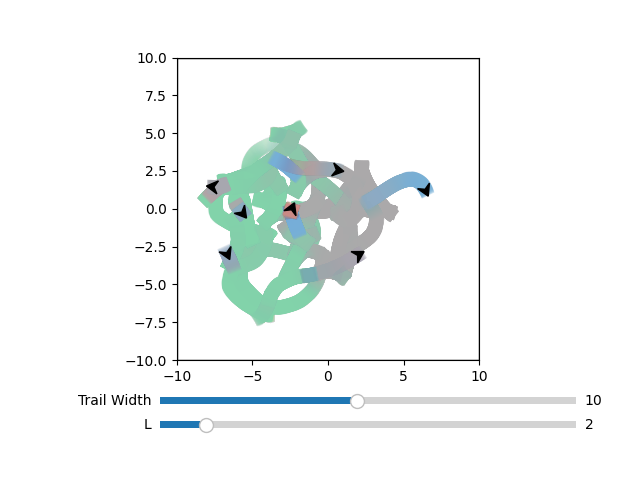
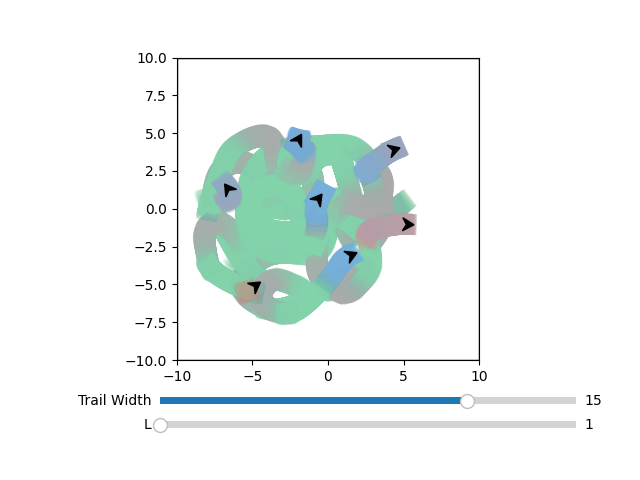
Update constants and enhance audio processing: modify trail width, adjust default lengths, add minor chord support, and implement batch processing in main script

diff --git a/main.py b/main.py
@@ -1,5 +1,4 @@
-from multiprocessing import Queue, Process
-from queue import Empty
+from multiprocessing import Process, Pipe
 from consts import RHO, VARANCE_X, VARANCE_Y
 from music import get_audio_chords,  get_audio_tempo
 from pipeline import ColorPipeline, EmotionPipeline, CenterPipeline, cart2pol
@@ -9,15 +8,13 @@ from swarm import Swarm
 import matplotlib.pyplot as plt
 import math
 from argparse import ArgumentParser
-
-
+import select
 import numpy as np
-
 from utils import Color, DensityFunction
 import time
 
 
-def proc_simulator(queue, robots, output_file):
+def proc_simulator(conn, robots, output_file):
 
   env = np.array([
     [10, 10],
@@ -44,12 +41,16 @@ def proc_simulator(queue, robots, output_file):
 
 
   while True:
-    try:
-      item = queue.get_nowait()
+    readable, _, _ = select.select([conn], [], [], 0.01)  # 0.1 is the timeout in seconds
+    if conn in readable:
+      item = conn.recv()
       if item is None:
-        plt.savefig(output_file)
-        break
-      else:
+          plt.savefig(output_file)
+          conn.close()
+          break
+      elif item is not None:
+        # print('simulator receive:', item)
+
         i_chord, i_colors, i_center, i_tempo = item
         if i_chord != chord:
           center = i_center
@@ -58,8 +59,7 @@ def proc_simulator(queue, robots, output_file):
         prev_chord = chord
         chord = i_chord
 
-    except Empty:
-      pass
+
 
     if center is None or colors is None:
       continue
@@ -75,8 +75,8 @@ def proc_simulator(queue, robots, output_file):
         type='gaussian',
         color=color.value,
         center= [
-          center[0] + np.cos(i*step) * RHO + np.cos(math.radians(phi)) * RHO, 
-          center[1] + np.sin(i*step) * RHO + np.sin(math.radians(phi)) * RHO
+          center[0] + np.cos(i*step+math.radians(phi)) * RHO + np.cos(math.radians(phi)) * RHO, 
+          center[1] + np.sin(i*step+math.radians(phi)) * RHO + np.sin(math.radians(phi)) * RHO
           ],
         variance=[VARANCE_X, VARANCE_Y]
       ) for i, color in enumerate(colors)
@@ -100,6 +100,7 @@ def proc_simulator(queue, robots, output_file):
       )
 
       robot.tempo_control_L(tempo)
+      # print(robot.get_L())
 
     phi = (phi + 1) % 360
 
@@ -108,32 +109,6 @@ def proc_simulator(queue, robots, output_file):
     sim.update_plot()
 
 
-def proc_pipeline(file_path, queue):
-  chords = get_audio_chords(file_path)
-  tempos = get_audio_tempo(file_path)
-
-  chords += [chords[-1]] * 10
-  tempos += [tempos[-1]] * 10
-
-  emotion_pipeline = EmotionPipeline()
-  color_pipeline = ColorPipeline()
-  center_pipeline = CenterPipeline()
-
-  for i in range(min(len(chords), len(tempos))):
-    chord = chords[i]
-    tempo = tempos[i]
-    emotions = emotion_pipeline.predict_emotion(chord)
-    colors = color_pipeline.predict_colors(emotions)
-    center = center_pipeline.predict_center(chord)
-
-
-
-    # zip color and location
-    output = (chord, colors, center, tempo)
-    queue.put(output)
-    time.sleep(1)
-
-  queue.put(None)
 
 
 
@@ -160,18 +135,36 @@ if __name__ == '__main__':
   ) for pose, color in zip(poses, colors)]
 
 
-  queue = Queue()
-  sim_p = Process(target=proc_simulator, args=(queue, robots, output_file))
-  pipe_p = Process(target=proc_pipeline, args=(audio_file, queue))
+  chords = get_audio_chords(audio_file)
+  tempos = get_audio_tempo(audio_file)
+
+  chords += [chords[-1]] * 10
+  tempos += [tempos[-1]] * 10
+
+  emotion_pipeline = EmotionPipeline()
+  color_pipeline = ColorPipeline()
+  center_pipeline = CenterPipeline()
+
+  in_conn, out_conn = Pipe()
+  sim_p = Process(target=proc_simulator, args=(out_conn, robots, output_file))
   sim_p.start()
-  pipe_p.start()
 
+  for i in range(min(len(chords), len(tempos))):
+    # print(f'Processing {i+1}/{len(chords)}')
+    chord = chords[i]
+    tempo = tempos[i]
+    emotions = emotion_pipeline.predict_emotion(chord)
+    colors = color_pipeline.predict_colors(emotions)
+    center = center_pipeline.predict_center(chord)
 
-# listen to user input
-# listen to music
-# send to pipeline
+    output = (chord, colors, center, tempo)
+    in_conn.send(output)
+    time.sleep(1)
+  
+  in_conn.send(None)
+
 
   sim_p.join()
-  pipe_p.join()
-  queue.close()
+  in_conn.close()
+  out_conn.close()
   print('done')

diff --git a/music.py b/music.py
@@ -52,8 +52,8 @@ def get_audio_tempo(file_path):
     audio = loader()
 
     sample_rate = 44100  # Assuming a sample rate of 44.1 kHz
-    window_size = sample_rate  # 2 second window
-    hop_size = window_size    # overlapping windows
+    window_size = sample_rate*8  # 2 second window
+    hop_size = sample_rate   # overlapping windows
 
     rhythm_extractor = esd.RhythmExtractor2013(method="multifeature")
 
@@ -72,7 +72,8 @@ def get_audio_tempo(file_path):
 
 
 if __name__ == '__main__':
-  audio_file = 'music/ Grande valse brillante in E-Flat Major, Op. 18.mp3'
+  audio_file = 'music/Gymnopédie No. 1.mp3'
+  # audio_file = 'music/3 Waltzes, Op. 64_ No. 1 in D-Flat Major _Minute_.mp3'
   tempo = get_audio_tempo(audio_file)
   print(tempo)
   print(len(tempo))

diff --git a/pipeline.py b/pipeline.py
@@ -23,6 +23,7 @@ class EmotionPipeline:
     'A#': Chord.MAJOR,
     'A#m': Chord.MINOR,
     'Ab': Chord.MAJOR,
+    'Abm': Chord.MINOR,
     
     'B': Chord.MAJOR,
     'Bm': Chord.MINOR,
@@ -139,6 +140,7 @@ class CenterPipeline:
     'F#m': pol2cart(90, 2*self.R),
     'C#m': pol2cart(120, 2*self.R),
     'G#m': pol2cart(150, 2*self.R),
+    'Abm': pol2cart(150, 2*self.R),
     'D#m': pol2cart(180, 2*self.R),
     'Bbm': pol2cart(210, 2*self.R),
     'Fm': pol2cart(240, 2*self.R),

diff --git a/consts.py b/consts.py
@@ -1,7 +1,7 @@
-TRAIL_WIDTH = 10
+TRAIL_WIDTH = 15
 TRAIL_WIDTH_MAX = 20
 TRAIL_WIDTH_MIN = 1
-L_DEFAULT = 2
+L_DEFAULT = 1
 L_MAX = 10
 L_MIN = 1
 K_DEFAULT = 1
@@ -10,4 +10,4 @@ TEMPO_MAX = 200
 VARANCE_X = 2
 VARANCE_Y = 2
 
-RHO = 2
+RHO = 3
